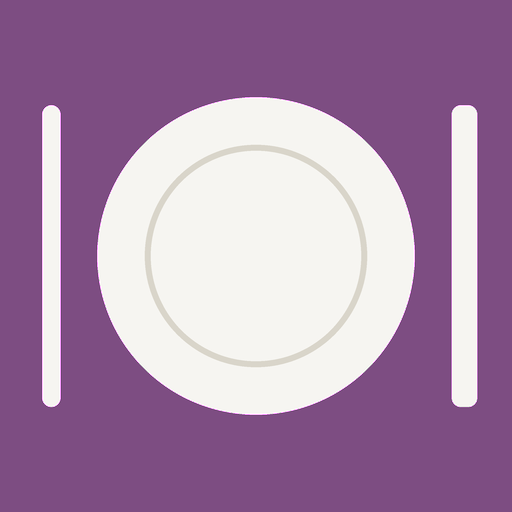
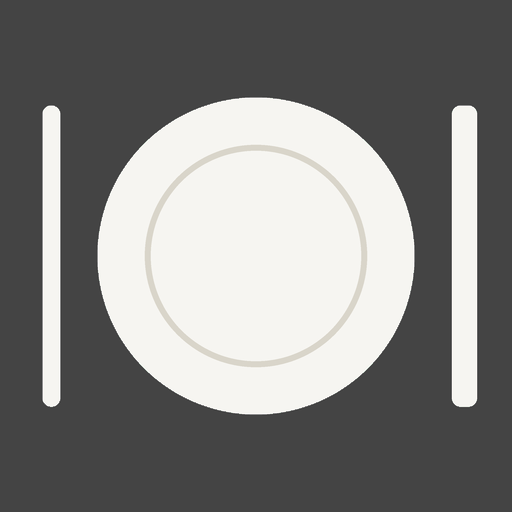
Essensplan: ruhiger Look „Stein“ in Hellgrau und Grau (statt Pflaume), App-Symbol grau
Claude-Session: https://claude.ai/code/session_015B6X8yqQAjBvDgyYJoMmo7

diff --git a/essensplan.html b/essensplan.html
@@ -4,7 +4,7 @@
 <meta charset="utf-8">
 <meta name="viewport" content="width=device-width,initial-scale=1,viewport-fit=cover">
 <title>Essensplan</title>
-<meta name="theme-color" content="#f5ecf2">
+<meta name="theme-color" content="#eaeae8">
 <meta name="apple-mobile-web-app-capable" content="yes">
 <meta name="mobile-web-app-capable" content="yes">
 <meta name="apple-mobile-web-app-title" content="Essensplan">
@@ -17,40 +17,40 @@
 <style>
 /* Layout: ruhige Küchen-App. Kopf mit Woche + Personen, Wochenübersicht (5 Teller), Umschalter Montag/Donnerstag,
    darunter entweder der Karten-Stapel zum Wischen oder (fertig) Gerichte links + Einkaufsliste nach Regalen rechts. */
-/* Look "Pflaume fein": zarte Pflaumen- und Aprikosentöne, feine Linien, elegante Serifen-Überschriften. Kein Grün. */
+/* Look "Stein": ruhige Hell- und Mittelgrautöne, Graphit als Akzent, feine Linien, elegante Serifen-Überschriften. */
 :root {
-  --bg: #faf7f8;
+  --bg: #f4f4f3;
   --surface: #ffffff;
-  --surface-2: #f3edf1;
-  --ink: #2a2129;
-  --muted: #7a6d77;
-  --line: #ece3e9;
-  --accent: #7d4d82;
+  --surface-2: #ececeb;
+  --ink: #242424;
+  --muted: #737371;
+  --line: #e2e2e0;
+  --accent: #3e3e3d;
   --accent-ink: #ffffff;
-  --accent-soft: #f4ebf4;
-  --no: #b9533f;
-  --no-soft: #fbece7;
-  --sun: #e9b46a;
-  --sun-soft: #fbf1e3;
-  --on-sun: #3d2a0e;
-  --hero: #f5ecf2;
-  --hero-ink: #2a2129;
-  --shadow: 0 1px 2px rgba(42, 33, 41, .04), 0 12px 32px rgba(42, 33, 41, .07);
-  --shadow-sm: 0 1px 2px rgba(42, 33, 41, .04), 0 3px 10px rgba(42, 33, 41, .04);
+  --accent-soft: #ebebea;
+  --no: #a85a4a;
+  --no-soft: #f6ecea;
+  --sun: #cfcfcc;
+  --sun-soft: #efefed;
+  --on-sun: #242424;
+  --hero: #eaeae8;
+  --hero-ink: #242424;
+  --shadow: 0 1px 2px rgba(36, 36, 36, .04), 0 12px 32px rgba(36, 36, 36, .06);
+  --shadow-sm: 0 1px 2px rgba(36, 36, 36, .04), 0 3px 10px rgba(36, 36, 36, .04);
   --font-display: "Cormorant Garamond", "Garamond", Georgia, serif;
   --font-ui: "Figtree", system-ui, -apple-system, "Segoe UI", sans-serif;
   --radius: 18px;
 }
 @media (prefers-color-scheme: dark) { :root:not([data-theme="light"]) {
-  --bg: #141114; --surface: #1d191d; --surface-2: #272127; --ink: #f1eaef; --muted: #aa9fa8; --line: #332b32;
-  --accent: #d3acd6; --accent-ink: #211522; --accent-soft: #33263a; --no: #ec9a85; --no-soft: #3a2623;
-  --sun: #eec283; --sun-soft: #33291c; --on-sun: #2c1e08; --hero: #221b22; --hero-ink: #f1eaef;
+  --bg: #141414; --surface: #1c1c1c; --surface-2: #262626; --ink: #ededec; --muted: #a3a3a1; --line: #313130;
+  --accent: #e4e4e2; --accent-ink: #161616; --accent-soft: #2b2b2a; --no: #e39a8a; --no-soft: #3a2724;
+  --sun: #555553; --sun-soft: #242424; --on-sun: #f0f0ef; --hero: #1e1e1e; --hero-ink: #ededec;
   --shadow: 0 1px 2px rgba(0,0,0,.3), 0 12px 32px rgba(0,0,0,.35); --shadow-sm: 0 1px 2px rgba(0,0,0,.25), 0 3px 10px rgba(0,0,0,.2); color-scheme: dark;
 } }
 :root[data-theme="dark"] {
-  --bg: #141114; --surface: #1d191d; --surface-2: #272127; --ink: #f1eaef; --muted: #aa9fa8; --line: #332b32;
-  --accent: #d3acd6; --accent-ink: #211522; --accent-soft: #33263a; --no: #ec9a85; --no-soft: #3a2623;
-  --sun: #eec283; --sun-soft: #33291c; --on-sun: #2c1e08; --hero: #221b22; --hero-ink: #f1eaef;
+  --bg: #141414; --surface: #1c1c1c; --surface-2: #262626; --ink: #ededec; --muted: #a3a3a1; --line: #313130;
+  --accent: #e4e4e2; --accent-ink: #161616; --accent-soft: #2b2b2a; --no: #e39a8a; --no-soft: #3a2724;
+  --sun: #555553; --sun-soft: #242424; --on-sun: #f0f0ef; --hero: #1e1e1e; --hero-ink: #ededec;
   --shadow: 0 1px 2px rgba(0,0,0,.3), 0 12px 32px rgba(0,0,0,.35); --shadow-sm: 0 1px 2px rgba(0,0,0,.25), 0 3px 10px rgba(0,0,0,.2); color-scheme: dark;
 }
 * { box-sizing: border-box; }
@@ -252,11 +252,11 @@ ol.steps li::before { content: counter(s); width: 26px; height: 26px; border-rad
 .close svg { width: 18px; height: 18px; }
 .sheet-actions { display: flex; gap: 10px; flex-wrap: wrap; margin-top: 22px; }
 
-/* ================= Look "Pflaume fein" (liegt über den Grundregeln oben) ================= */
+/* ================= Look "Stein" (liegt über den Grundregeln oben) ================= */
 h1, h2, h3 { font-weight: 600; letter-spacing: -0.005em; }
 .wrap { padding-block: 16px 72px; }
 .eyebrow, .slot .tag, .group h4, .cols h4, .gkbox h4 { letter-spacing: .12em; font-weight: 600; }
-/* Kopf: zarte Fläche mit feinem Aprikosen-Kreis */
+/* Kopf: ruhige graue Fläche mit feinem Kreis */
 header { position: relative; overflow: hidden; background: var(--hero); color: var(--hero-ink); border-radius: 22px; padding: 26px 28px 24px; margin-bottom: 30px; align-items: center; isolation: isolate; border: 1px solid var(--line); }
 header::before, header::after { content: ""; position: absolute; border-radius: 50%; z-index: -1; pointer-events: none; }
 header::before { width: 240px; height: 240px; right: -60px; top: -110px; border: 1px solid var(--sun); }

diff --git a/index.html b/index.html
@@ -4,7 +4,7 @@
 <meta charset="utf-8">
 <meta name="viewport" content="width=device-width,initial-scale=1,viewport-fit=cover">
 <title>Essensplan</title>
-<meta name="theme-color" content="#f5ecf2">
+<meta name="theme-color" content="#eaeae8">
 <meta name="apple-mobile-web-app-capable" content="yes">
 <meta name="mobile-web-app-capable" content="yes">
 <meta name="apple-mobile-web-app-title" content="Essensplan">
@@ -17,40 +17,40 @@
 <style>
 /* Layout: ruhige Küchen-App. Kopf mit Woche + Personen, Wochenübersicht (5 Teller), Umschalter Montag/Donnerstag,
    darunter entweder der Karten-Stapel zum Wischen oder (fertig) Gerichte links + Einkaufsliste nach Regalen rechts. */
-/* Look "Pflaume fein": zarte Pflaumen- und Aprikosentöne, feine Linien, elegante Serifen-Überschriften. Kein Grün. */
+/* Look "Stein": ruhige Hell- und Mittelgrautöne, Graphit als Akzent, feine Linien, elegante Serifen-Überschriften. */
 :root {
-  --bg: #faf7f8;
+  --bg: #f4f4f3;
   --surface: #ffffff;
-  --surface-2: #f3edf1;
-  --ink: #2a2129;
-  --muted: #7a6d77;
-  --line: #ece3e9;
-  --accent: #7d4d82;
+  --surface-2: #ececeb;
+  --ink: #242424;
+  --muted: #737371;
+  --line: #e2e2e0;
+  --accent: #3e3e3d;
   --accent-ink: #ffffff;
-  --accent-soft: #f4ebf4;
-  --no: #b9533f;
-  --no-soft: #fbece7;
-  --sun: #e9b46a;
-  --sun-soft: #fbf1e3;
-  --on-sun: #3d2a0e;
-  --hero: #f5ecf2;
-  --hero-ink: #2a2129;
-  --shadow: 0 1px 2px rgba(42, 33, 41, .04), 0 12px 32px rgba(42, 33, 41, .07);
-  --shadow-sm: 0 1px 2px rgba(42, 33, 41, .04), 0 3px 10px rgba(42, 33, 41, .04);
+  --accent-soft: #ebebea;
+  --no: #a85a4a;
+  --no-soft: #f6ecea;
+  --sun: #cfcfcc;
+  --sun-soft: #efefed;
+  --on-sun: #242424;
+  --hero: #eaeae8;
+  --hero-ink: #242424;
+  --shadow: 0 1px 2px rgba(36, 36, 36, .04), 0 12px 32px rgba(36, 36, 36, .06);
+  --shadow-sm: 0 1px 2px rgba(36, 36, 36, .04), 0 3px 10px rgba(36, 36, 36, .04);
   --font-display: "Cormorant Garamond", "Garamond", Georgia, serif;
   --font-ui: "Figtree", system-ui, -apple-system, "Segoe UI", sans-serif;
   --radius: 18px;
 }
 @media (prefers-color-scheme: dark) { :root:not([data-theme="light"]) {
-  --bg: #141114; --surface: #1d191d; --surface-2: #272127; --ink: #f1eaef; --muted: #aa9fa8; --line: #332b32;
-  --accent: #d3acd6; --accent-ink: #211522; --accent-soft: #33263a; --no: #ec9a85; --no-soft: #3a2623;
-  --sun: #eec283; --sun-soft: #33291c; --on-sun: #2c1e08; --hero: #221b22; --hero-ink: #f1eaef;
+  --bg: #141414; --surface: #1c1c1c; --surface-2: #262626; --ink: #ededec; --muted: #a3a3a1; --line: #313130;
+  --accent: #e4e4e2; --accent-ink: #161616; --accent-soft: #2b2b2a; --no: #e39a8a; --no-soft: #3a2724;
+  --sun: #555553; --sun-soft: #242424; --on-sun: #f0f0ef; --hero: #1e1e1e; --hero-ink: #ededec;
   --shadow: 0 1px 2px rgba(0,0,0,.3), 0 12px 32px rgba(0,0,0,.35); --shadow-sm: 0 1px 2px rgba(0,0,0,.25), 0 3px 10px rgba(0,0,0,.2); color-scheme: dark;
 } }
 :root[data-theme="dark"] {
-  --bg: #141114; --surface: #1d191d; --surface-2: #272127; --ink: #f1eaef; --muted: #aa9fa8; --line: #332b32;
-  --accent: #d3acd6; --accent-ink: #211522; --accent-soft: #33263a; --no: #ec9a85; --no-soft: #3a2623;
-  --sun: #eec283; --sun-soft: #33291c; --on-sun: #2c1e08; --hero: #221b22; --hero-ink: #f1eaef;
+  --bg: #141414; --surface: #1c1c1c; --surface-2: #262626; --ink: #ededec; --muted: #a3a3a1; --line: #313130;
+  --accent: #e4e4e2; --accent-ink: #161616; --accent-soft: #2b2b2a; --no: #e39a8a; --no-soft: #3a2724;
+  --sun: #555553; --sun-soft: #242424; --on-sun: #f0f0ef; --hero: #1e1e1e; --hero-ink: #ededec;
   --shadow: 0 1px 2px rgba(0,0,0,.3), 0 12px 32px rgba(0,0,0,.35); --shadow-sm: 0 1px 2px rgba(0,0,0,.25), 0 3px 10px rgba(0,0,0,.2); color-scheme: dark;
 }
 * { box-sizing: border-box; }
@@ -252,11 +252,11 @@ ol.steps li::before { content: counter(s); width: 26px; height: 26px; border-rad
 .close svg { width: 18px; height: 18px; }
 .sheet-actions { display: flex; gap: 10px; flex-wrap: wrap; margin-top: 22px; }
 
-/* ================= Look "Pflaume fein" (liegt über den Grundregeln oben) ================= */
+/* ================= Look "Stein" (liegt über den Grundregeln oben) ================= */
 h1, h2, h3 { font-weight: 600; letter-spacing: -0.005em; }
 .wrap { padding-block: 16px 72px; }
 .eyebrow, .slot .tag, .group h4, .cols h4, .gkbox h4 { letter-spacing: .12em; font-weight: 600; }
-/* Kopf: zarte Fläche mit feinem Aprikosen-Kreis */
+/* Kopf: ruhige graue Fläche mit feinem Kreis */
 header { position: relative; overflow: hidden; background: var(--hero); color: var(--hero-ink); border-radius: 22px; padding: 26px 28px 24px; margin-bottom: 30px; align-items: center; isolation: isolate; border: 1px solid var(--line); }
 header::before, header::after { content: ""; position: absolute; border-radius: 50%; z-index: -1; pointer-events: none; }
 header::before { width: 240px; height: 240px; right: -60px; top: -110px; border: 1px solid var(--sun); }

diff --git a/sw.js b/sw.js
@@ -1,6 +1,6 @@
 // Offline-Speicher: Seite und Bilder bleiben am Handy, auch ohne Internet.
 // Die Seite selbst wird immer zuerst frisch geholt, damit neue Rezepte sofort da sind.
-const CACHE = "mampfplan-v2";
+const CACHE = "mampfplan-v3";
 self.addEventListener("install", e => {
   e.waitUntil(caches.open(CACHE).then(c => c.addAll(["./", "manifest.webmanifest", "icons/icon-192.png"])));
   self.skipWaiting();
